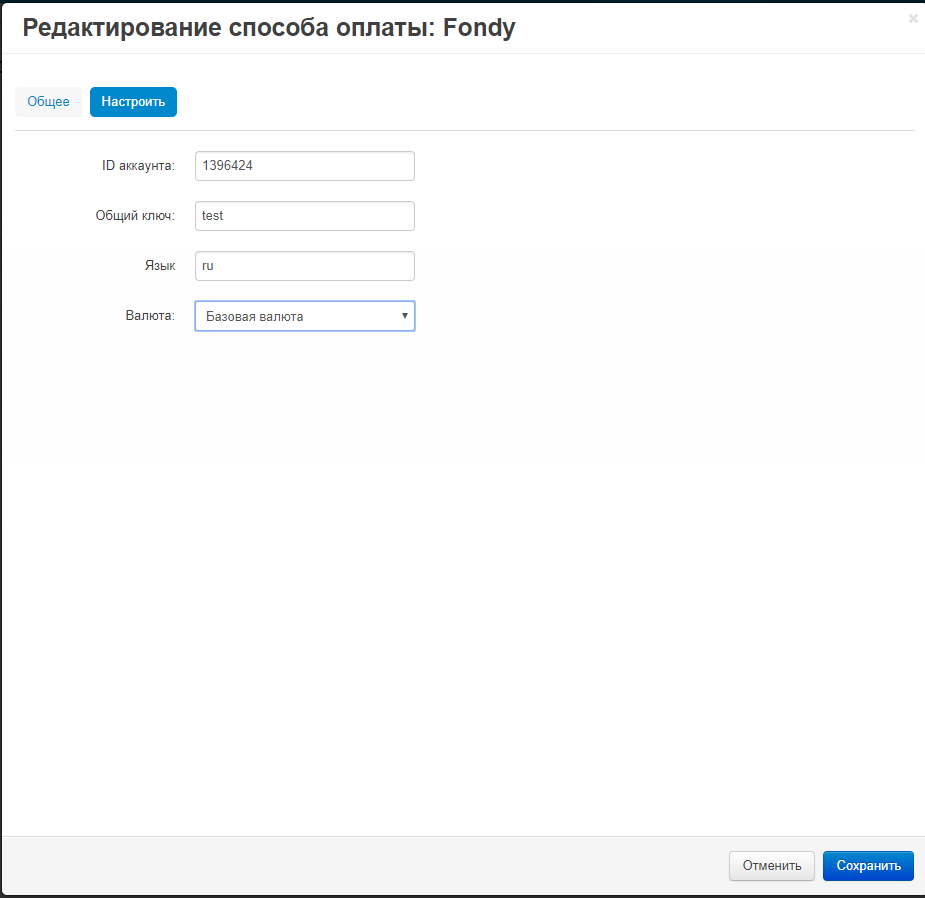
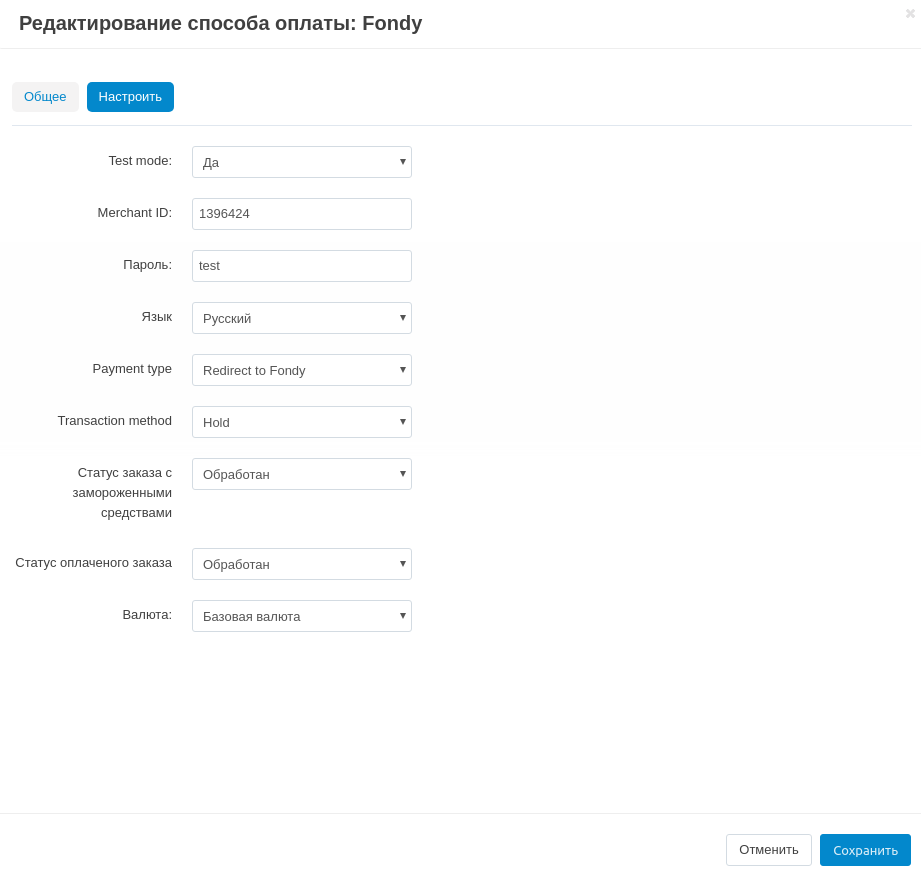
update readme + fix

diff --git a/app/addons/fondy/payments/fondy.php b/app/addons/fondy/payments/fondy.php
@@ -26,8 +26,15 @@ if (defined('PAYMENT_NOTIFICATION')) {
 
     if ($response === true) {
         if ($mode == 'ok' && $body['order_status'] == 'approved') {
+
+            if ($order_info['status'] == $processor_data['processor_params']['paid_order_status'] && $processor_data['processor_params']['transaction_method'] == 'hold') {
+                $order_status = $processor_data['processor_params']['paid_order_status'];
+            } else {
+                $order_status = ($processor_data['processor_params']['transaction_method'] == 'hold') ? $processor_data['processor_params']['status_hold'] : $processor_data['processor_params']['paid_order_status'];
+            }
+
             $pp_response = [
-                'order_status' => ($processor_data['processor_params']['transaction_method'] == 'hold') ? $processor_data['processor_params']['status_hold'] : 'P',
+                'order_status' => $order_status,
                 'payment_id' => $body['payment_id'],
             ];
         } else {
@@ -43,7 +50,7 @@ if (defined('PAYMENT_NOTIFICATION')) {
         fn_redirect('/cart');
         exit();
     }
-    $pp_response = ['order_status' => ($processor_data['processor_params']['transaction_method'] == 'hold') ? $processor_data['processor_params']['status_hold'] : 'P'];
+    $pp_response = ['order_status' => ($processor_data['processor_params']['transaction_method'] == 'hold') ? $processor_data['processor_params']['status_hold'] : $processor_data['processor_params']['paid_order_status']];
     fn_finish_payment($order_id, $pp_response);
     fn_clear_cart($_SESSION['cart']);
     fn_redirect('/cart');

diff --git a/app/addons/fondy/func.php b/app/addons/fondy/func.php
@@ -40,7 +40,7 @@ function fn_fondy_change_order_status(&$status_to, $status_from, $order_info, $f
         $currency_f = $processor_data['processor_params']['currency'];
     }
 
-    if ($processor_data['processor_params']['status_hold'] == $status_from && $status_to == 'P') {
+    if ($processor_data['processor_params']['status_hold'] == $status_from && $status_to == $processor_data['processor_params']['paid_order_status']) {
         $payment_data = [
             'order_id' => ($order_info['payment_info']['order_id']) ? $order_info['payment_info']['order_id'] : $order_info['payment_info']['fondy_order_id'],
             'currency' => $currency_f,

diff --git a/README.md b/README.md
@@ -16,11 +16,15 @@
    1. Название -- Банковской картой Visa/Mastercard; 
    2. Процессор -- Fondy;
 - Hа вкладке "Настройки" заполните:
-   1. ID аккаунта -- идентификатор мерчанта; 
-   2. Общий ключ -- секретный ключ мерчанта;
+   1. Merchant ID -- идентификатор мерчанта; 
+   2. Пароль -- секретный ключ мерчанта;
    3. Валюта -- валюта мерчанта;
+   4. Transaction method -- Продажа/hold
+   5. Статусы заказа
 	
 5.Нажать кнопку "Создать";
+
+При выбраном режиме холдирования, списание средст происходит при смене "статуса заказа с замороженными средствами" на выбраный "статсу оплаченого заказа"
 
 
 ![Скриншот][1]
